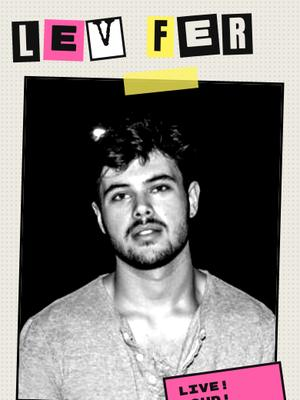
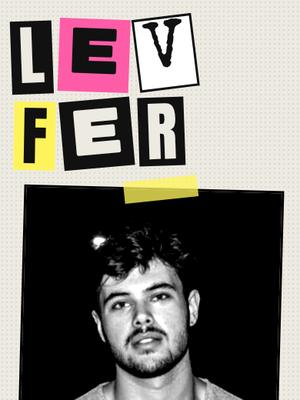
Punk Flyer: the name never runs off; words stay whole and the letters shrink to fit any name
Claude-Session: https://claude.ai/code/session_01MMJiH2YcuUKAu29SY4X2cE

diff --git a/sites/punk-flyer/index.html b/sites/punk-flyer/index.html
@@ -23,9 +23,9 @@ img { display: block; max-width: 100%; }
 :focus-visible { outline: 3px solid var(--accent); outline-offset: 2px; }
 .flyer { max-width: 760px; margin: 0 auto; min-height: 100vh; background: var(--paper); background-image: radial-gradient(rgba(0,0,0,.08) 1px, transparent 1.4px); background-size: 6px 6px; padding: 22px 16px 10px; overflow: hidden; }
 @media (min-width: 800px) { .flyer { margin: 40px auto; min-height: 0; transform: rotate(-.6deg); box-shadow: 0 30px 60px rgba(0,0,0,.5); padding: 36px 44px 20px; } }
-.name { margin: 0; display: flex; flex-wrap: wrap; gap: 6px; transform: rotate(-2deg); line-height: 1; font-weight: 400; }
-.name span { padding: 2px 8px; font-size: clamp(44px, 12vw, 84px); }
-.name .gap { width: 18px; padding: 0; }
+.name { margin: 0; display: flex; flex-wrap: wrap; gap: 10px 18px; transform: rotate(-2deg); line-height: 1; font-weight: 400; font-size: var(--name-size, 64px); max-width: 100%; }
+.name .word { display: inline-flex; flex-wrap: nowrap; gap: .1em; max-width: 100%; }
+.name .word span { padding: .03em .12em; font-size: 1em; }
 .name .s0 { background: var(--ink); color: var(--paper); font-family: var(--block); }
 .name .s1 { background: var(--accent); font-family: var(--mono); transform: rotate(4deg); padding: 2px 6px; }
 .name .s2 { background: #fff; border: 3px solid var(--ink); font-family: var(--type); transform: rotate(-5deg); padding: 0 6px; }
@@ -90,12 +90,22 @@ CTT.start(function (k, app) {
   var flyer = el("div", { class: "flyer" });
 
   // the name as a ransom note: each letter cut from a different page
-  var n = 0, letters = [];
-  k.name.toUpperCase().split("").forEach(function (ch) {
-    if (ch === " ") { letters.push(el("span", { class: "gap", "aria-hidden": "true" })); return; }
-    letters.push(el("span", { class: "s" + (n++ % 5), "aria-hidden": "true", text: ch }));
+  // each word stays whole (never "FE / R"), and the letters shrink until the longest word fits the flyer
+  var n = 0;
+  var words = k.name.toUpperCase().trim().split(/\s+/).map(function (w) {
+    return el("span", { class: "word", "aria-hidden": "true" }, w.split("").map(function (ch) { return el("span", { class: "s" + (n++ % 5), text: ch }); }));
   });
-  flyer.append(el("h1", { class: "name", "aria-label": k.name }, letters));
+  var nameEl = el("h1", { class: "name", "aria-label": k.name }, words);
+  flyer.append(nameEl);
+  var fit = function () {
+    var size = 84; nameEl.style.setProperty("--name-size", size + "px");
+    var room = nameEl.clientWidth;
+    if (!room) return;
+    while (size > 24 && words.some(function (w) { return w.scrollWidth > room; })) { size -= 2; nameEl.style.setProperty("--name-size", size + "px"); }
+  };
+  requestAnimationFrame(fit);
+  if (document.fonts && document.fonts.ready) document.fonts.ready.then(fit);
+  window.addEventListener("resize", fit);
   if (k.photo) flyer.append(el("div", { class: "photo" + (k.coaster ? " round" : "") }, [k.coaster ? k.coasterPhoto() : el("img", { src: k.photo, alt: k.name }), el("span", { class: "tape", "aria-hidden": "true" }),
     say("sticker") ? el("span", { class: "sticker", text: say("sticker") }) : null]));
   if (k.bio) flyer.append(el("p", { class: "bio", text: k.bio }));
